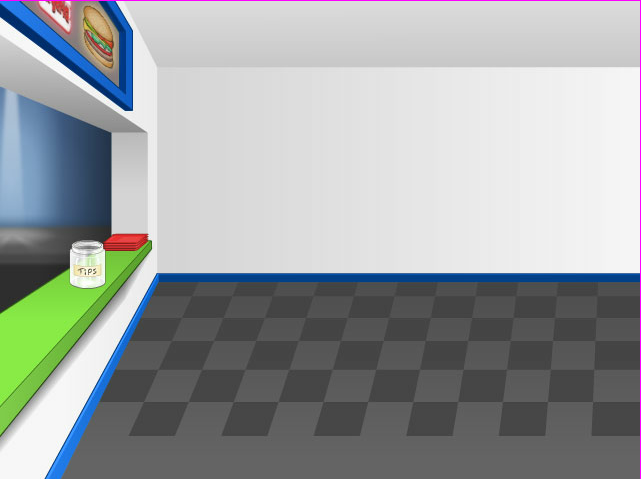
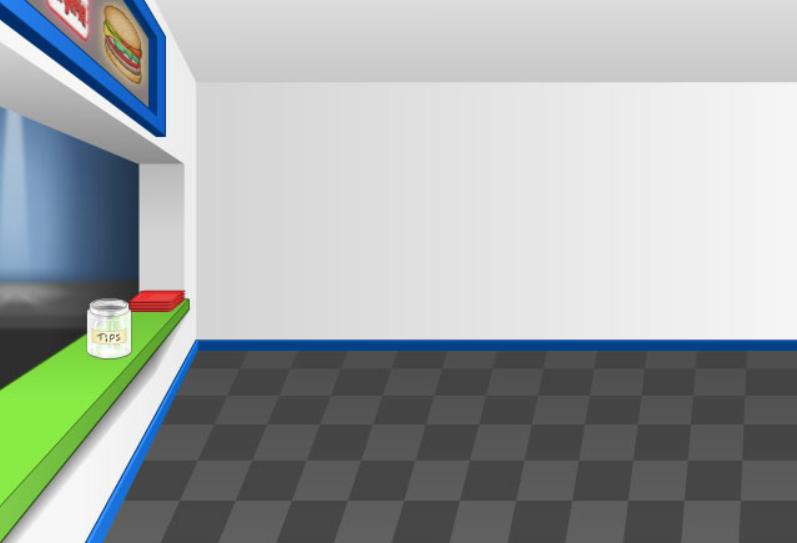
new

Changed region(s): [[0.0, 0.0, 1.0, 1.0], [0.0, 0.0, 0.2496, 0.3215], [0.0, 0.1754, 0.0312, 0.2046]]

diff --git a/src/AnimationPanel.java b/src/AnimationPanel.java
@@ -32,15 +32,20 @@ public class AnimationPanel extends JPanel implements ActionListener, MouseListe
 
     private double previousY;
     private String direction;
-    private JLabel label;
+    //private JLabel label;
     private JButton order;
     private JButton grill;
     private JButton build;
+    private Image background;
 
     // constructor
     public AnimationPanel(){
-        JLabel background = new JLabel(new ImageIcon("src/orderRoom"));
-        add(background);
+        //this.setFore
+
+        ImageIcon backgroundIcon = new ImageIcon("src/orderRoom.png");
+        Image backgroundImage = backgroundIcon.getImage();
+        backgroundIcon.setImage(backgroundImage.getScaledInstance(550,400,2));
+        background = backgroundIcon.getImage();
         // initialize variables
 
         isClickingOrangeRect = false;
@@ -64,18 +69,18 @@ public class AnimationPanel extends JPanel implements ActionListener, MouseListe
         previousY = 0;
         direction = null;
 
-        label = new JLabel();
-        add(label);
+//        label = new JLabel();
+//        add(label);
 
-        ImageIcon icon = new ImageIcon("src/picture.png");
+        ImageIcon icon = new ImageIcon("src/ketchup.png");
         Image image = icon.getImage();
 
-        icon.setImage(image.getScaledInstance(25,75,1));
-        label.setBounds(orangeRect);
-        label.setIcon(icon);
+//        icon.setImage(image.getScaledInstance(25,75,1));
+//        label.setBounds(orangeRect);
+//        label.setIcon(icon);
         //label.setVisible(true);
 
-        label.setSize(25,75);
+        //label.setSize(25,75);
 
         order = new JButton(new ImageIcon("src/order.png"));
         grill = new JButton(new ImageIcon("src/grill.png"));
@@ -94,6 +99,10 @@ public class AnimationPanel extends JPanel implements ActionListener, MouseListe
         order.setSize(130,50);
         grill.setSize(130,50);
         build.setSize(130,50);
+
+        order.addActionListener(this);
+        grill.addActionListener(this);
+        build.addActionListener(this);
         //order.setLocation(125,450);
 
     }
@@ -105,7 +114,7 @@ public class AnimationPanel extends JPanel implements ActionListener, MouseListe
     public void paint(Graphics gp) {
         super.paint(gp); // must do this!
         Graphics2D g2d = (Graphics2D) gp; // cast gp to a 2D graphics object so we can do more advanced stuff
-
+        //background.setLocation(0,0);
         // draw blue message on screen
 //        g2d.setColor(Color.blue);
 //        Font myFont = new Font("Arial", BOLD, 14);
@@ -128,10 +137,15 @@ public class AnimationPanel extends JPanel implements ActionListener, MouseListe
         g2d.setStroke(new BasicStroke(3)); // change pen thickness
         g2d.setColor(Color.orange);
         //g2d.draw(orangeRect);  // draw the orange rectangle
-        label.setLocation(orangeRect.x,orangeRect.y);
+        //label.paint(g2d);
+        //label.setLocation(orangeRect.x,orangeRect.y);
+        g2d.drawImage(background, 0,0,null);
+        ImageIcon icon = new ImageIcon("src/ketchup.png");
+
+        g2d.drawImage(icon.getImage(),orangeRect.x,orangeRect.y,null);
         //new ImageObserver;
 //        ImageObserver observer = null;
-//        g2d.drawImage("picture.png", 100, 100, observer);
+//        g2d.drawImage("ketchup.png", 100, 100, observer);
 
         //label.setBounds(100,100,100,100);
         //label.setBounds(orangeRect);
@@ -240,6 +254,25 @@ public class AnimationPanel extends JPanel implements ActionListener, MouseListe
                 condimentTimerOn = false;
                 orangeRect.setLocation(20,20);
                 //stream.clear();
+            }
+        }else if(e.getSource() instanceof JButton){
+            if(e.getSource() == order){
+                ImageIcon backgroundIcon = new ImageIcon("src/orderRoom.png");
+                Image backgroundImage = backgroundIcon.getImage();
+                backgroundIcon.setImage(backgroundImage.getScaledInstance(550,400,2));
+                background = backgroundIcon.getImage();
+            }else if(e.getSource() == grill){
+                ImageIcon backgroundIcon = new ImageIcon("src/grillRoom.png");
+                Image backgroundImage = backgroundIcon.getImage();
+                backgroundIcon.setImage(backgroundImage.getScaledInstance(550,400,2));
+                background = backgroundIcon.getImage();
+            }else if(e.getSource() == build){
+                ImageIcon backgroundIcon = new ImageIcon("src/buildRoom.png");
+                Image backgroundImage = backgroundIcon.getImage();
+                backgroundIcon.setImage(backgroundImage.getScaledInstance(550,400,2));
+                background = backgroundIcon.getImage();
+            }else{
+
             }
         }
 //        if (e.getSource() instanceof MouseEvent) {

diff --git a/src/AnimationFrame.java b/src/AnimationFrame.java
@@ -13,6 +13,7 @@ public class AnimationFrame extends JFrame {
         // since AnimationPanel is a subclass of JPanel; since AnimationPanel is designed
         // entirely in code, we must CHECK the "Custom Create" box for mainPanel in the Swing UI designer
         mainPanel = new AnimationPanel();
+        //add(mainPanel);
         setContentPane(mainPanel);
 //        JButton button = new JButton();
 //        mainPanel.add(button);

diff --git a/src/MainPanel.java b/src/MainPanel.java
@@ -1,0 +1,10 @@
+import javax.swing.*;
+
+public class MainPanel extends JPanel {
+    private JButton button;
+    public MainPanel(){
+        button = new JButton();
+        add(button);
+        button.setLocation(250,250);
+    }
+}
